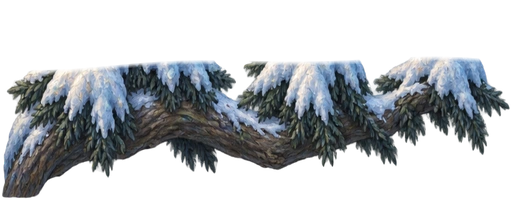
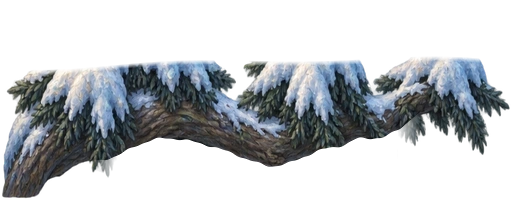
Align the frozen pine lip with its collision contour and verify the phone gallery

Changed region(s): [[0.5, 0.57, 0.8438, 0.87], [0.1875, 0.69, 0.5, 0.9]]

diff --git a/tests/browser-obstacle-landscapes.js b/tests/browser-obstacle-landscapes.js
@@ -94,6 +94,22 @@ async function playTransitions(page,revision,results){
   }
 }
 
+async function captureGallery(page){
+  const ids=await page.evaluate(()=>GRIM_OBSTACLE_SPRITES.filter(s=>s.category==='slide').map(s=>s.id));
+  assert.equal(ids.length,24);
+  const dir=path.join(out,'gallery');
+  await fs.mkdir(dir,{recursive:true});
+  const captures={};
+  for(const id of ids){
+    await page.evaluate(id=>obstacleReview.prepare({id,gallery:true}),id);
+    await waitForArt(page);
+    captures[id]=await page.evaluate(()=>obstacleReview.inspect());
+    await page.screenshot({path:path.join(dir,id+'-phone-scene.png')});
+    await page.evaluate(()=>obstacleReview.cleanup());
+  }
+  return captures;
+}
+
 async function measure(page,revision,cases,extras=true){
   const errors=[];page.on('pageerror',error=>errors.push(error.message));
   await page.goto('http://127.0.0.1:'+server.address().port+'/'+revision+'/?seed=33',{waitUntil:'domcontentloaded'});
@@ -169,6 +185,7 @@ async function measure(page,revision,cases,extras=true){
   });
   results.portal={trace:hash(arrival.states),ticks:arrival.states.length};
   await fs.writeFile(path.join(out,'first-portal-'+revision+'.jpg'),Buffer.from(arrival.frame,'base64'));
+  if(revision==='after' && width===740)results.gallery=await captureGallery(page);
   if(width===950) {
     try {await playTransitions(page,revision,results);}
     catch(error){results.routesFailure={error:error.message};console.error(revision,error.message);}
@@ -186,9 +203,17 @@ async function measure(page,revision,cases,extras=true){
     const cases=[...pilot,...remaining];
     const summary={};
     for(const revision of ['before','after']){
-      const page=await browser.newPage({viewport:{width,height},hasTouch:true});
-      try{summary[revision]=await measure(page,revision,cases);}
-      finally{await page.close();}
+      // Independent seeded starts use a fresh WebGL context. Natural
+      // transitions and the rotation/rewind replay keep their context live.
+      const batches=renderer==='webgl' ? [...cases.map(spec=>[spec]),[]] : [cases];
+      summary[revision]={};
+      for(let i=0;i<batches.length;i++){
+        const page=await browser.newPage({viewport:{width,height},hasTouch:true});
+        try{
+          Object.assign(summary[revision],await measure(page,revision,batches[i],i===batches.length-1));
+        }finally{await page.close();}
+        await fs.writeFile(path.join(out,'summary.json'),JSON.stringify(summary,null,2));
+      }
       // Atlas downloads can time out on shared software-rendering runners.
       // Retry a failed load once from a fresh page and preserve the diagnostic.
       for(const [key,previous] of Object.entries(summary[revision])){

diff --git a/tests/browser-obstacle-smoke.js b/tests/browser-obstacle-smoke.js
@@ -158,7 +158,7 @@ const server=http.createServer((req,res)=>{
             originY:branchImage.originY},skin:branchSkin?.id});
       }
       if(!branchBack||branchBack.y!==224||branchBack.depth!==.55||
-        branchBack.displayHeight!==branchH||
+        Math.abs(branchBack.displayHeight-branchH)>.000001||
         branchImage.depth!==16||branchImage.depth<=s.actor.depth){
         renderMisses++;renderFailures.push({id:'painted-slide-backing-missing'});
       }
